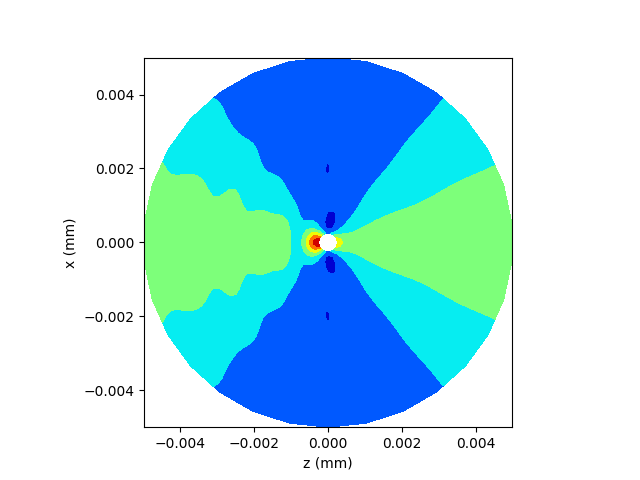
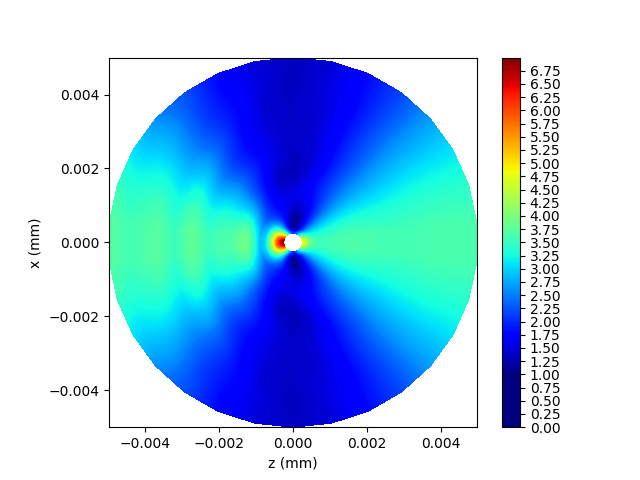
Fully fixed colorbar, colormap.

diff --git a/equations/graph.py b/equations/graph.py
@@ -1,6 +1,6 @@
 import numpy as __np
 import matplotlib.pyplot as __plt
-from matplotlib.colors import Normalize
+from matplotlib.colors import Normalize, Colormap
 from matplotlib import cm
 from equations.parameters import *
 import time
@@ -12,14 +12,13 @@ R, theta = __np.meshgrid(r, tha1)
 X = R * __np.cos(theta)
 Y = R * __np.sin(theta)
 
-cmap = __plt.get_cmap('jet',10000)
+cmap = __plt.get_cmap('jet')
 
-fig, ax = __plt.subplots()
-
-def graph_eq(sig, name = str(time.time())[7:-4], factor = 10e6, dir = "./pictures/", colorbar_ticks = "0.5 or 1, 0.2 for T"):
+# Should be 10e6? Need to figure out why/if 10x difference.
+def graph_eq(sig, name = str(time.time())[7:-4], factor = 10e5, dir = "./pictures/", colorbar_ticks = "0.5 or 1, 0.2 for T"):
     fig, ax = __plt.subplots()
     values = __np.abs(sig)
-    ax.contourf(X, Y, values)
+    ax.contourf(X, Y, values, 256)
 
     vmax = __np.ceil(__np.amax(values)/factor)
     vmin = __np.floor(__np.amin(values)/factor)
@@ -27,7 +26,7 @@ def graph_eq(sig, name = str(time.time())[7:-4], factor = 10e6, dir = "./picture
     norm = Normalize(vmin=vmin, vmax=vmax)
     sm = cm.ScalarMappable(cmap=cmap, norm=norm)
     sm.set_array([])
-    fig.colorbar(sm, ticks=__np.arange(vmin,vmax,.25), boundaries=__np.arange(vmin,vmax,.001), ax=ax)
+    fig.colorbar(sm, ticks=__np.arange(0,vmax,.25), boundaries=__np.arange(0,vmax,.001), ax=ax)
 
     __plt.gca().set_aspect("equal")
     __plt.xlabel("z (mm)")
@@ -35,14 +34,16 @@ def graph_eq(sig, name = str(time.time())[7:-4], factor = 10e6, dir = "./picture
     fig.savefig(dir + name + ".png")
 
 def graph_temp_gr(values, shift = 21, name = str(time.time())[7:-4], dir = "./pictures/"):
-    ax.contourf(X, Y, values - shift)
-    vmax = __np.floor(__np.amax(__np.abs(values)))
-    vmin = __np.floor(__np.amin(__np.abs(values)))
+    fig, ax = __plt.subplots()
+    ax.contourf(X, Y, values - shift, 256)
+
+    vmax = __np.ceil(__np.amax(__np.abs(values))) - 21
+    vmin = __np.floor(__np.amin(__np.abs(values))) - 21
 
     norm = Normalize(vmin=vmin, vmax=vmax)
     sm = cm.ScalarMappable(cmap=cmap, norm=norm)
     sm.set_array([])
-    #fig.colorbar(sm, ticks=__np.arange(vmin,vmax,.25), boundaries=__np.arange(vmin,vmax,.001), ax=ax)
+    fig.colorbar(sm, ticks=__np.arange(0,vmax,.25), boundaries=__np.arange(0,vmax,.001), ax=ax)
     
     __plt.gca().set_aspect("equal")
     fig.savefig(dir + name + ".png")

diff --git a/main.py b/main.py
@@ -60,27 +60,27 @@ from equations.temperature import *
 
 
 # Stress Equations
-sigrr = get_sigrr(); print("sigrr Equation done")
+sigrr = get_sigrr(); print("sigrr equation done...")
 
-sigphiphi = get_sigphiphi(); print("sigpp Equation done")
+sigphiphi = get_sigphiphi(); print("sigpp equation done...")
 
-sigthatha = get_sigthatha(); print("sigtt Equation done")
+sigthatha = get_sigthatha(); print("sigtt equation done...")
 
-sigrtha = get_sigrtha(); print("sigrt Equation done")
+sigrtha = get_sigrtha(); print("sigrt equation done...")
 
 # Stress Graphs
-graph_eq(sigrr, name = "rR")
+graph_eq(sigrr, name = "rR"); print("sigrr graph done...")
 
-graph_eq(sigphiphi, name = "phiPhi")
+graph_eq(sigphiphi, name = "phiPhi"); print("sigpp graph done...")
 
-graph_eq(sigthatha, name = "thetaTheta")
+graph_eq(sigthatha, name = "thetaTheta"); print("sigtt graph done...")
 
-graph_eq(sigrtha, name = "rTheta")
+graph_eq(sigrtha, name = "rTheta"); print("sigrt graph done...")
 
 # Volumetric Heat Generation Graph
-q1 = get_q1(sigrr, sigphiphi, sigthatha, sigrtha)
+q1 = get_q1(sigrr, sigphiphi, sigthatha, sigrtha); print("q1 equation done...")
 
-graph_eq(q1, "q1")
+graph_eq(q1, "q1"); print("q1 graph done...")
 
 # Input for Tempurature Gradient
 
@@ -113,7 +113,7 @@ T = FillGap(T1,r,tha1,t)
 
 # Graph Temperature Gradient
 
-graph_temp_gr(T[:,:,(t.size-1)], shift = 21, name = "tempGradient")
+graph_temp_gr(T[:,:,(t.size-1)], shift = 21, name = "tempGradient"); print("temp graph done...")
 
 # #Output IO
 # put_io("outi", "phiPhi", "Phi Stress on the Phi Face Image")
